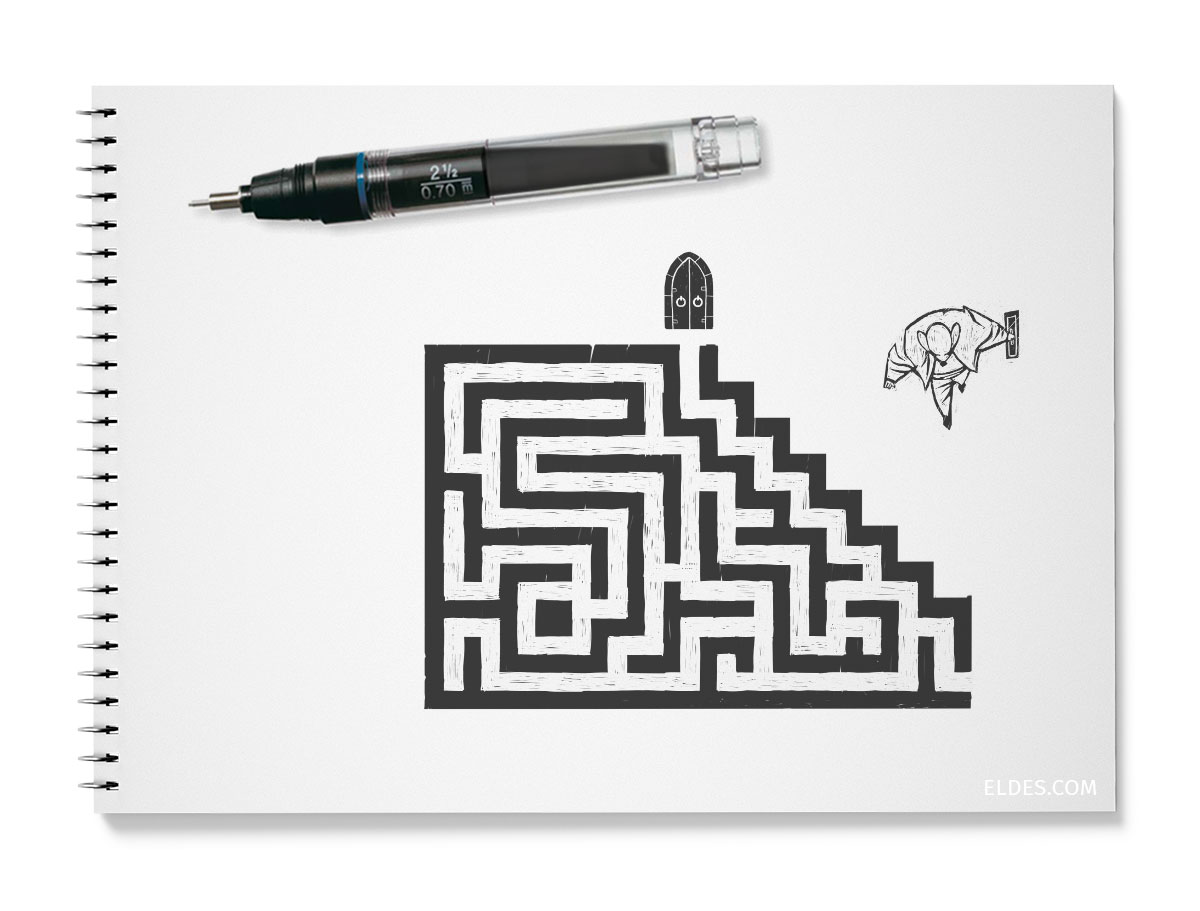
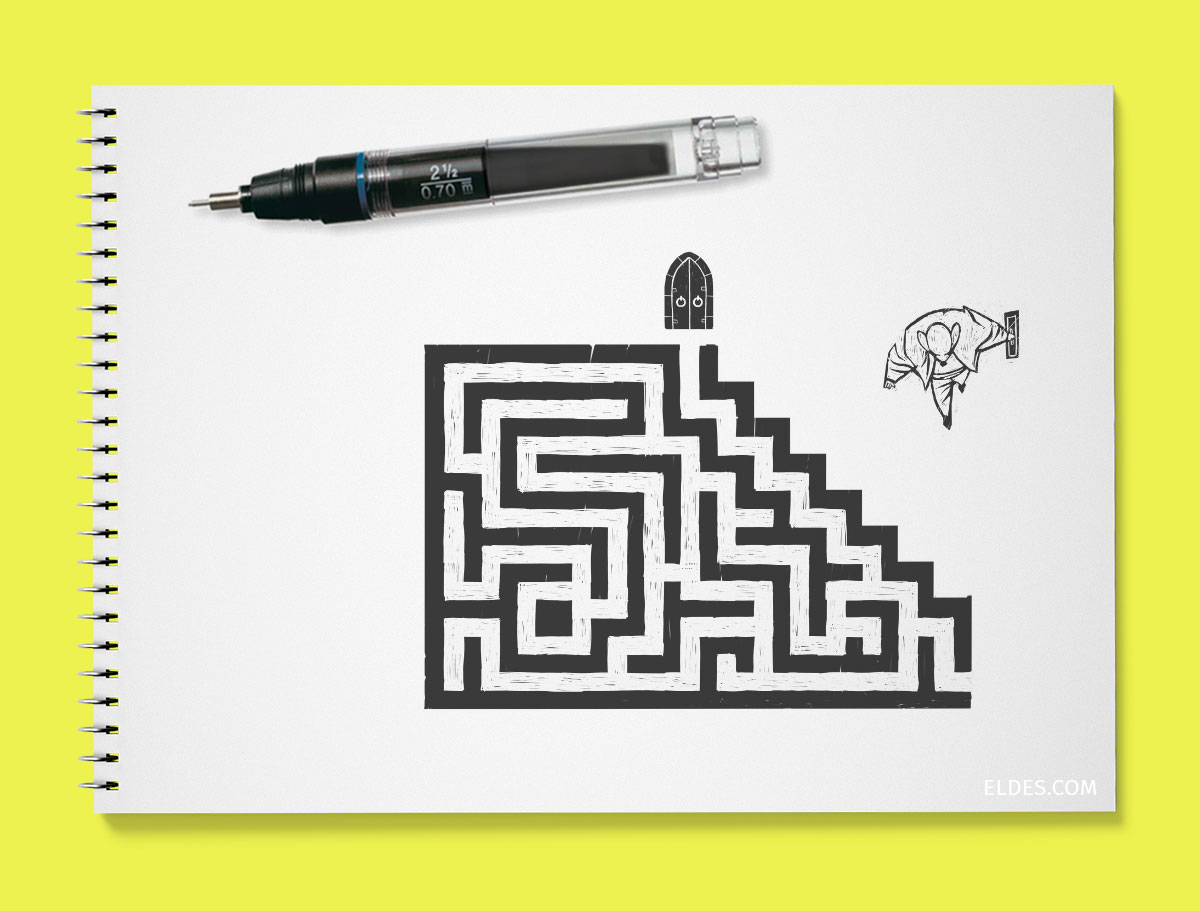
[=] Adjust layout of Podcast Max Gehringer

diff --git a/pages/podcast-max-gehringer.tsx b/pages/podcast-max-gehringer.tsx
@@ -9,15 +9,18 @@ import illustration111213Image from '../public/content/podcast-max-gehringer/pod
 import illustration111221Image from '../public/content/podcast-max-gehringer/podcast-max-gehringer-illustration-111221.jpg';
 import illustration120102Image from '../public/content/podcast-max-gehringer/podcast-max-gehringer-illustration-120102.jpg';
 import mockupImage from '../public/content/podcast-max-gehringer/podcast-max-gehringer-mockup-illustrations.jpg';
+import processTrainingImage from '../public/content/podcast-max-gehringer/eldes-illustration-editorial-process-training.gif';
 import illustration111213PenImage from '../public/content/podcast-max-gehringer/podcast-max-gehringer-illustration-111213-pen.jpg';
 import illustration111221PenImage from '../public/content/podcast-max-gehringer/podcast-max-gehringer-illustration-111221-pen.jpg';
 import illustration120102PenImage from '../public/content/podcast-max-gehringer/podcast-max-gehringer-illustration-120102-pen.jpg';
 import illustration120102RoughImage from '../public/content/podcast-max-gehringer/podcast-max-gehringer-illustration-120102-rough.jpg';
-import thanksImage from '../public/content/podcast-max-gehringer/thanks.jpg';
+import processImage from '../public/content/podcast-max-gehringer/eldes-illustration-editorial-process.png';
+import thanksImage from '../public/content/podcast-max-gehringer/thanks.png';
 import BeImage from '../components/BeImage';
 import BeThanks from '../components/BeThanks';
 import BeParagaph from '../components/BeParagraph';
-import animationImage from '../public/content/podcast-max-gehringer/podcast-max-gehringer-illustration-detail-animation.gif';
+import detailTopImage from '../public/content/podcast-max-gehringer/podcast-max-gehringer-illustration-detail-top.jpg';
+import detailBottomImage from '../public/content/podcast-max-gehringer/podcast-max-gehringer-illustration-detail-animation.gif';
 import SwitchLocale from '../components/SwitchLocale';
 import BeHeading from '../components/BeHeading';
 import BePhotoGrid from '../components/BePhotoGrid';
@@ -33,8 +36,11 @@ const PodcastMaxGehringerPage: NextPage = () => {
       seeMoreList={Helpers.makeSeeMoreListForPieceBePage(useRouter(), [
         TagSlug.WoodcutStyle,
       ])}
+      backgroundColor='#edf24f'
 		>
-      <BeImage src={animationImage} alt={'Animated illustration'}/>
+
+      <BeImage src={detailTopImage} alt={'Top detail of illustration'} />
+      
 			<BeCredits fields={[
 				{
 					label: 'Max Gehringer',
@@ -58,69 +64,56 @@ const PodcastMaxGehringerPage: NextPage = () => {
             In the podcast <i>&quot;Carreira Profissional&quot;</i> (&quot;Professional Career&quot;), on Radio CBN, Max Gehringer offers valuable tips and guidance for those who want to invest in their career.
           </BeParagaph>
           <BeParagaph>
-            Inspired by the episodes, I developed a series of images as an exercise to create illustrations for periodicals in the Editorial market.
+            Inspired by the episodes of this podcast, I developed a series of illustrations.
           </BeParagaph>
+          <BeImage src={mockupImage} alt={'Digital mockup showing some of the illustrations being applied on the podcast website.'} />
+          <BeParagaph backgroundColor='#fff'>
+            This exercise helped to define my method of developing illustrations for periodicals — when there is a relatively short time between receiving the text and preparing the illustration.
+          </BeParagaph>
+          <BeImage src={processTrainingImage} alt={'Animação mostrando o processo de treinamento para ilustração para o mercado editorial'}  backgroundColor='#fff' />
+          <BeParagaph  backgroundColor='#fff'>
+          Below are the illustrations for the episodes: <i>&quot;Os cinco maiores erros da carreira profissional&quot;</i> (&quot;The Five Biggest Mistakes in a Professional Career&quot;), <i>&quot;Como conviver com um colega negativista?&quot;</i> (&quot;How to Live With a Negative Colleague?&quot;) and <i>&quot;Como faço para escapar de uma lista de dispensa?&quot;</i> (&quot;How do I escape a waiver list?&quot;).
+        </BeParagaph>
         </>
       } br={
         <>
-          <BeParagaph>
-            As an exercise, inspired by the podcast episodes, I developed a series of illustrations.
+          <BeParagaph backgroundColor='#fff'>
+            No podcast &quot;Carreira Profissional&quot;, da Rádio CBN, Max Gehringer dá dicas e orientações valiosas para quem quer investir na carreira. 
           </BeParagaph>
-          <BeParagaph>
-            Inspiradas nos episódios, desenvolvi uma série de imagens, como exercício de criação de ilustrações para periódicos do mercado editorial.
+          <BeParagaph backgroundColor='#fff'>
+            Inspiradas nos episódios desse podcast, desenvolvi uma série de ilustrações.
           </BeParagaph>
+          <BeImage src={mockupImage} alt={'Maquete digital mostrando algumas das ilustrações sendo aplicadas no site do podcast.'} />
+          <BeParagaph backgroundColor='#fff'>
+            Esse exercício ajudou a definir meu método de desenvolvimento de ilustrações para periódicos — quando há um tempo relativamente curto entre o recebimento do texto e a preparação da ilustração.
+          </BeParagaph>
+          <BeImage src={processTrainingImage} alt={'Animation showing the process of illustration to editorial market'} backgroundColor='#fff'/>
+          <BeParagaph backgroundColor='#fff'>
+          A seguir, as ilustrações para os episódios: &quot;Os cinco maiores erros da carreira profissional&quot;, &quot;Como conviver com um colega negativista?&quot; e &quot;Como faço para escapar de uma lista de dispensa?&quot;.
+        </BeParagaph>
         </>
       } />
 
-        
-      <BeImage src={mockupImage} alt={'Laptop mockup showing the illustrations on a website.'} />
+      <BeImage src={illustration111213Image} alt={'Illustration'} horizontalPadding verticalPadding backgroundColor='#fff' />
+      <BeImage src={illustration111221Image} alt={'Illustration'} horizontalPadding verticalPadding backgroundColor='#fff' />
+      <BeImage src={illustration120102Image} alt={'Illustration'} horizontalPadding verticalPadding backgroundColor='#fff' />
 
-      <SwitchLocale en={
-        <BeParagaph>
-          Below are the illustrations for the episodes: <i>&quot;Os cinco maiores erros da carreira profissional&quot;</i> (&quot;The Five Biggest Mistakes in a Professional Career&quot;), <i>&quot;Como conviver com um colega negativista?&quot;</i> (&quot;How to Live With a Negative Colleague?&quot;) and <i>&quot;Como faço para escapar de uma lista de dispensa?&quot;</i> (&quot;How do I escape a waiver list?&quot;).
-        </BeParagaph>
-      } br={
-        <BeParagaph>
-          A seguir, as ilustrações para os episódios: &quot;Os cinco maiores erros da carreira profissional&quot;, &quot;Como conviver com um colega negativista?&quot; e &quot;Como faço para escapar de uma lista de dispensa?&quot;.
-        </BeParagaph>
-      } />
-
-      <BeImage src={illustration111213Image} alt={'Illustration'} horizontalPadding verticalPadding />
-      <BeImage src={illustration111221Image} alt={'Illustration'} horizontalPadding verticalPadding />
-      <BeImage src={illustration120102Image} alt={'Illustration'} horizontalPadding verticalPadding />
       <SwitchLocale
         en={
-          <>
-            <BeHeading>
-              Sketches and process:
-            </BeHeading>
-            <BeParagaph>
-              Brain &gt; Pencil &gt; Pen and Ink &gt; Scanner &gt; Photoshop &gt; Illustrator:
-            </BeParagaph>
-          </>
+          <BeHeading backgroundColor='#edf24f'>
+            Sketches and process:
+          </BeHeading>
         }
         br={
-          <>
-            <BeHeading>
-              Rascunhos e processo:
-            </BeHeading>
-            <BeParagaph>
-              Cérebro &gt; Lápis &gt; Caneta e Tinta &gt; Scanner &gt; Photoshop &gt; Illustrator:
-            </BeParagaph>
-          </>
+          <BeHeading backgroundColor='#edf24f'>
+            Rascunhos e processo:
+          </BeHeading>
         }
       />
-      
 
+      <BeImage src={processImage} alt={'Process: ideate and sketch, sktech, sktech..., ink, to digital, composition and adjusting on Photoshop, tracing and color on Illustrator'} horizontalPadding backgroundColor='#edf24f' />
+      
       <BePhotoGrid images={[
-        {
-          src: illustration111213PenImage,
-          alt: 'Pen and ink of illustration',
-        },
-        {
-          src: illustration111221PenImage,
-          alt: 'Pen and ink of illustration',
-        },
         {
           src: illustration120102RoughImage,
           alt: 'Rough of illustration',
@@ -129,9 +122,19 @@ const PodcastMaxGehringerPage: NextPage = () => {
           src: illustration120102PenImage,
           alt: 'Pen and ink fo illustration',
         },
+        {
+          src: illustration111213PenImage,
+          alt: 'Pen and ink of illustration',
+        },
+        {
+          src: illustration111221PenImage,
+          alt: 'Pen and ink of illustration',
+        },
       ]} cols={2} />
 
-      <BeThanks image={thanksImage} />
+
+      <BeThanks image={thanksImage} backgroundColor='#edf24f'/>
+      <BeImage src={detailBottomImage} alt={'Animated illustration'}/>
     </PieceBePage>
   );
 };

diff --git a/repositories/tags-repository.ts b/repositories/tags-repository.ts
@@ -54,6 +54,7 @@ const tags: Tag[] = [
 			'la-maison-qui-pue-magazine',
 			'solidao-empresarial-editorial-illustration',
 			'hipocrisil',
+      'podcast-max-gehringer',
 			'moitara-teatro-portugues-editorial-illustration',
     ],
   },
